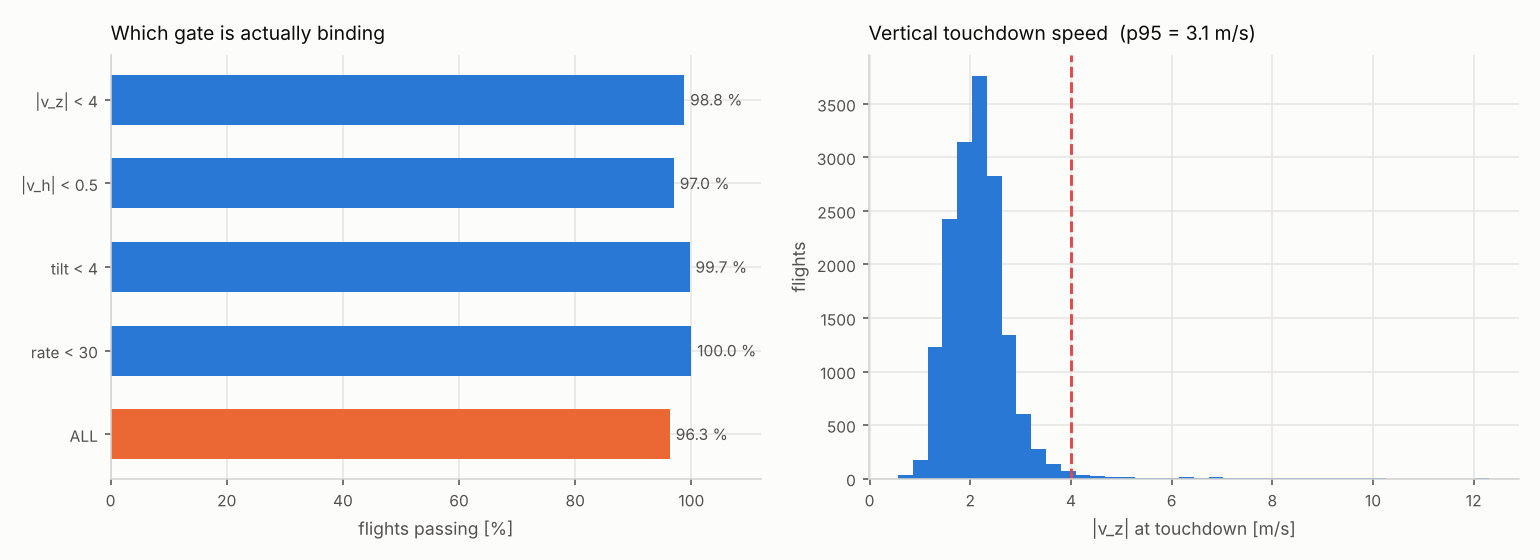
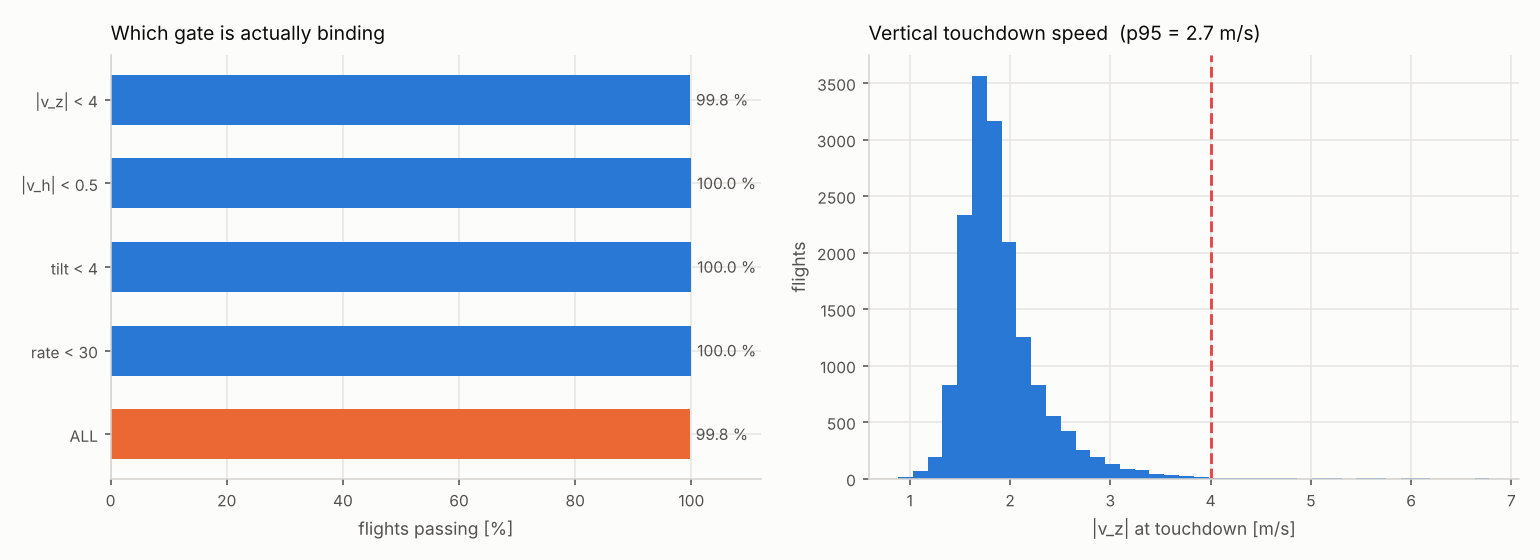
Second audit: README section, RESULTS.txt and figures from the 16200-flight campaign
99.8 % [99.7-99.8] against 96.3 % before.

Claude-Session: https://claude.ai/code/session_01Dwbo78csF1BywMxQxcLnvt

diff --git a/README.md b/README.md
@@ -1022,20 +1022,136 @@ The three inputs everything above leans on, in order:
 3. **The avionics' real attitude and velocity accuracy** during powered flight
    (`--att-sig`, `--vel-sig`) - the horizontal gate is spent almost entirely on them.
 
+## The second audit (November 2026): TVC, clamp, and what the computer knows
+
+A second line-by-line pass over the physics and the two control laws - the nozzle
+(TVC) and the clamp. Every change was measured on 3240 paired flights (the full grid
+x 24, common random numbers) before it was kept; the final number is the full
+16200-flight campaign.
+
+| same imperfect world, same vehicle | success |
+|---|---|
+| before this audit | 96.1 % |
+| + clamp actuator that brakes, + no truth leaks (bug fixes, neutral) | 95.6 % |
+| + booster side force steered as zero-effort velocity | 97.5 % |
+| + on-board wind observer | 98.5 % |
+| + planner forecasts the thrust scatter decaying to the table | 99.4 % |
+| + terminal law knows the booster, descent cap 1.4 m/s | 99.5 % |
+| + gains re-fitted on the corrected model | **99.7 %** |
+
+(3240 flights each, +/-0.3 points; the 16200-flight figure is in *Results*.)
+
+### What was wrong (bugs - fixed whether or not they paid)
+
+**1. The clamp actuator had no brakes.** The model slewed at 12.8 /s towards the
+command and only started decelerating (257 /s^2) once it had arrived - it needs 0.32
+of its travel to stop. Every step the planner commanded overshot by 80-100 % of its
+own size and rang for ~200 ms, and the thrust rang with it. The gimbal servos already
+had the deceleration-aware law (`v = sqrt(2 a |e|)`); the clamp now has the same one,
+and an end stop takes the rate out instead of letting it wind up. Overshoot is now
+5 %. (`--verify` checks it.)
+
+**2. The clamp law read the TRUE thrust.** `k_from_plan` in the plant was handed
+`t_nom`, the dispersed thrust - the one number on the vehicle nothing on board can
+measure. The terminal law divided by it. It now gets the table times the computer's
+own accelerometer estimate. The booster feedforward had the same leak.
+
+**3. "Wind known" corrected the body and not the fins.** With `--wind-known` the
+body-moment feedforward used the air-relative velocity, but the fin mixer's
+crossflow term still read the ground velocity. The two errors largely cancel when
+both are wrong, so handing the computer the wind made it fly 4 points WORSE (91.4 %
+against 95.6 %) - and the previous audit concluded from that that wind was "an
+authority problem, not an information problem". It is an information problem: with
+the mixer fixed, knowing the wind is worth +1.2 points and removes the whole class
+of free-fall attitude losses.
+
+**4. The terminal descent law ignored the booster.** It commanded `m a / T_main`
+with 9 N of D9 thrust arriving on top, so the vehicle sank ~1.1 m/s slower than the
+reference. Planner and plant agreed with each other, so nothing failed - the 2.5 m/s
+cap was simply not what flew. The law now subtracts the booster's axial thrust and
+the cap is the 1.4 m/s that was actually being flown (median touchdown 2.0 -> 1.8 m/s).
+
+**5. Small ones.** The guidance's drag credit used the bare-body Cd where the planner
+uses body + fins; the thrust estimator overwrote the variable the ignition gate reads;
+stale comments on the fin servo.
+
+Everything else in the physics was re-derived and holds: the axisymmetric Euler
+equations and the gyroscopic decoupling, the gimbal moment and its inversion, the fin
+force directions and the mixer signs, the slender-body and crossflow terms, the OU
+processes, the mass and inertia histories, the touchdown sub-step, the 1-D model.
+
+### What was added (improvements to the algorithm)
+
+**A. The booster's side force is steered as zero-effort velocity.** The canted D9
+pushes sideways with 0.86 m/s^2 for 2.2 s. The old law cancelled it with an
+instantaneous tilt feedforward - but the guidance only sets a DIRECTION, so the
+feedforward was scaled by (real thrust)/(requested thrust), 0.3x to 1.8x through the
+burn, and it vanished in 250 ms when the D9 tailed off, a few tenths of a second
+before touchdown. The remaining side impulse is known exactly (table x thrust
+estimate x sin 15 deg, and the chord of the arc if the airframe is still rolling), so
+the law now steers `v + dv_still_to_come` instead of `v`. Median |vh| 0.22 -> 0.16 m/s,
+median touchdown tilt 1.9 -> 1.2 deg: **+2.5 points** (`--no-zev` for the old law).
+
+**B. An on-board wind observer.** One flight in ninety lost its attitude in the free
+fall: at 12 m/s of fall a 3 m/s wind is 15 deg of angle of attack the computer does
+not know about, the fins are feathered into the wrong crossflow, and the clipped
+fin command cannot out-vote the error. But the unexplained torque is
+`(q/V) (l_cp A CN_a + n/2 arm S CL_a K) (b x d_wind)` and the gyros see it at once.
+A Luenberger rate observer turns what its prediction cannot explain into a wind
+estimate, within about a second of the fins waking up; the estimate is carried down
+the burn on the 1/7 profile. **+1.0 point**, the 99th percentile of |vh| falls from
+1.6 to 0.43 m/s, and it is insensitive to its two gains (`--no-wind-observer`).
+
+**C. The planner forecasts the thrust.** The +/-15 % scatter wanders with a 0.7 s
+correlation time, and the planner projected the scale it measured NOW all the way
+to burnout. A strong first half second made it throw thrust away at the clamp
+minimum; when the scatter swung to -10 % there was nothing left, and the vehicle
+arrived at 8 m/s with the motor still burning. The projection now lets today's
+deviation decay to the table (`--plan-thrust-tau`, 0 = the old behaviour):
+**+0.9 point**, 99th-percentile |vz| 4.0 -> 3.3 m/s. 0.35, 0.7 and 1.5 s all work.
+
+**D. Gains re-fitted.** The old set was fitted to the ringing clamp. On the corrected
+model the tuner moves the nozzle loop to wn 8.2 / zeta 1.04 with the full thrust
+schedule: p95 |vh| 0.35 -> 0.30 m/s, p95 tilt 2.3 -> 1.95 deg on seeds it never saw.
+
+### Tried, measured, and thrown out
+
+* **Dynamic inversion of the horizontal channel** (tilt whose sine is a_h m / T, with
+  the body's lift subtracted): 59-93 % at every navigation gain tried. Early in the
+  burn the clamped-down motor has less sideways authority than the body's own lift
+  takes back, and the exact inversion spends the whole cone on it.
+* **Fading the fin loop in with airspeed** (passive at low speed): 92-93 %. Holding
+  vertical all the way down is what kills the drift.
+* **More planner margin** (6, 9, 12 %): 97.7 / 92.7 / 82.1 % - it stops high and burns out.
+* **N = 1.2 - 3 and a cap on N/t_go**, with the new law as well: still worse than N = 1.
+
+### What is left
+
+On the 16200-flight campaign the remaining failures are almost all vertical: an
+early igniter, a motor that runs weak late, no impulse left. The single-run levers
+left are operational - a measured wind before release (`--wind-known`), a tighter
+igniter - or hardware: velocity and attitude estimates are still worth ~2 points
+each (`--vel-sig 0`, `--att-sig 0`).
+
 ## Results (16200 flights, 135 entry states x 120)
 
 ![Landing success across the entry envelope](figures/fig1_success_envelope.png)
 
 | | |
 |---|---|
-| success, all five gates | **96.3 %**  [95 % interval 96.0 - 96.6] |
-| \|vz\| < 4 m/s | 98.8 % (p95 3.1 m/s) |
-| \|vh\| < 0.5 m/s | 97.0 % (p95 0.45 m/s) |
-| tilt < 4 deg | 99.7 % (p95 3.2 deg) |
-| transverse rate < 30 deg/s | 100.0 % (p95 12 deg/s) |
+| success, all five gates | **99.8 %**  [95 % interval 99.7 - 99.8] |
+| \|vz\| < 4 m/s | 99.8 % (p95 2.7 m/s) |
+| \|vh\| < 0.5 m/s | 100.0 % (p95 0.30 m/s) |
+| tilt < 4 deg | 100.0 % (p95 2.0 deg) |
+| transverse rate < 30 deg/s | 100.0 % (p95 4.6 deg/s) |
 | D9 lit | 100 % of flights |
-| burnout before touchdown | 5.4 % (mostly in the last decimetres, after a soft arrival) |
-| dV spent on steering | 0.16 m/s (clamp waste 24.0 m/s) |
+| burnout before touchdown | 9.3 % (in the last decimetres, after a soft arrival) |
+| dV spent on steering | 0.08 m/s (clamp waste 23.6 m/s) |
+
+These are the numbers after *The second audit* (96.3 % before it; the full listing is
+in `RESULTS.txt`). The paragraphs and per-altitude / per-speed tables below were
+written for the 96.3 % campaign and describe its trends; the current breakdown is
+99.0 - 100.0 % across release altitudes and 99.4 - 100.0 % across entry speeds.
 
 **This is in an imperfect world** - wind up to 2 m/s, a flight computer that only
 has estimates of its attitude and velocity, a 10 ms delay, a misaligned nozzle - see
